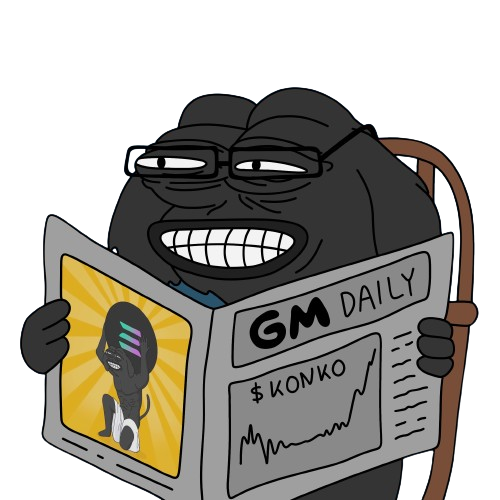
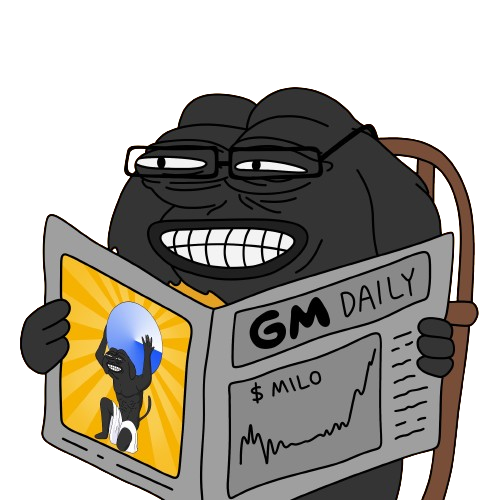
adde

diff --git a/components/Footer/Footer.tsx b/components/Footer/Footer.tsx
@@ -24,14 +24,14 @@ export default function Footer() {
               </Link>
               <Link
                 target="_blank"
-                href={"http://twitter.com/konko_sol"}
+                href={""}
                 className="w-16 h-16 hover:scale-110 cursor-pointer -rotate-3 bg-yellow flex items-center justify-center"
               >
                 <FaXTwitter className="text-white p-2" />
               </Link>
               <Link
                 target="_blank"
-                href={"https://t.me/Konkochannel"}
+                href={"https://t.me/milocommunity"}
                 className="w-16 h-16 rotate-3 hover:scale-110 cursor-pointer bg-yellow flex items-center justify-center"
               >
                 <FaTelegramPlane className="text-white p-2" />

diff --git a/components/Header/HeaderSection.tsx b/components/Header/HeaderSection.tsx
@@ -24,7 +24,9 @@ export default function HeaderSection() {
           </h1>
           <div className="flex items-center gap-5 text-white  text-7xl">
             <FaXTwitter className="border-[8px] border-white p-2 rounded-full " />
-            <FaTelegramPlane className="border-[8px] border-white p-2 rounded-full " />
+            <Link target="_blank" href={"https://t.me/milocommunity"}>
+              <FaTelegramPlane className="border-[8px] border-white p-2 rounded-full " />
+            </Link>
             <FaChartLine className="border-[8px] border-white p-2 rounded-full " />
           </div>
         </div>
